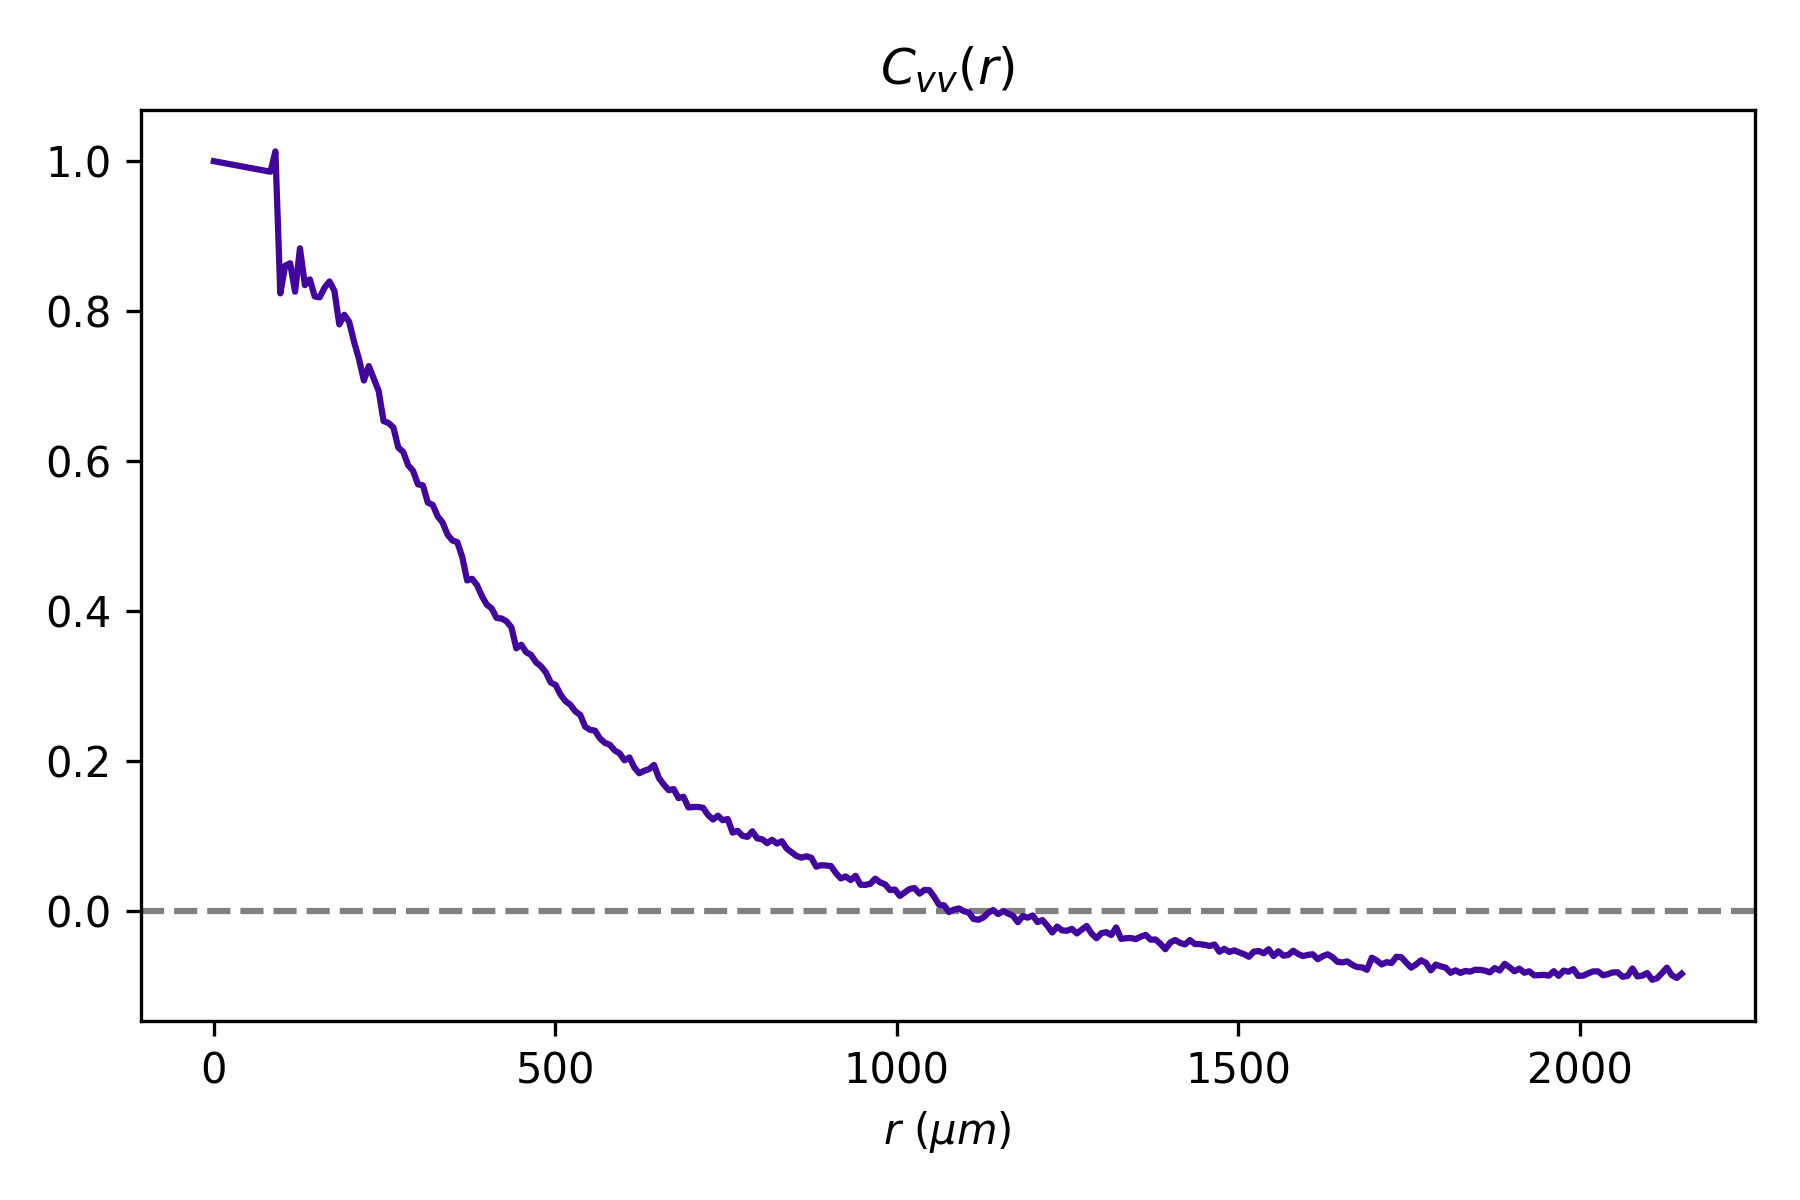
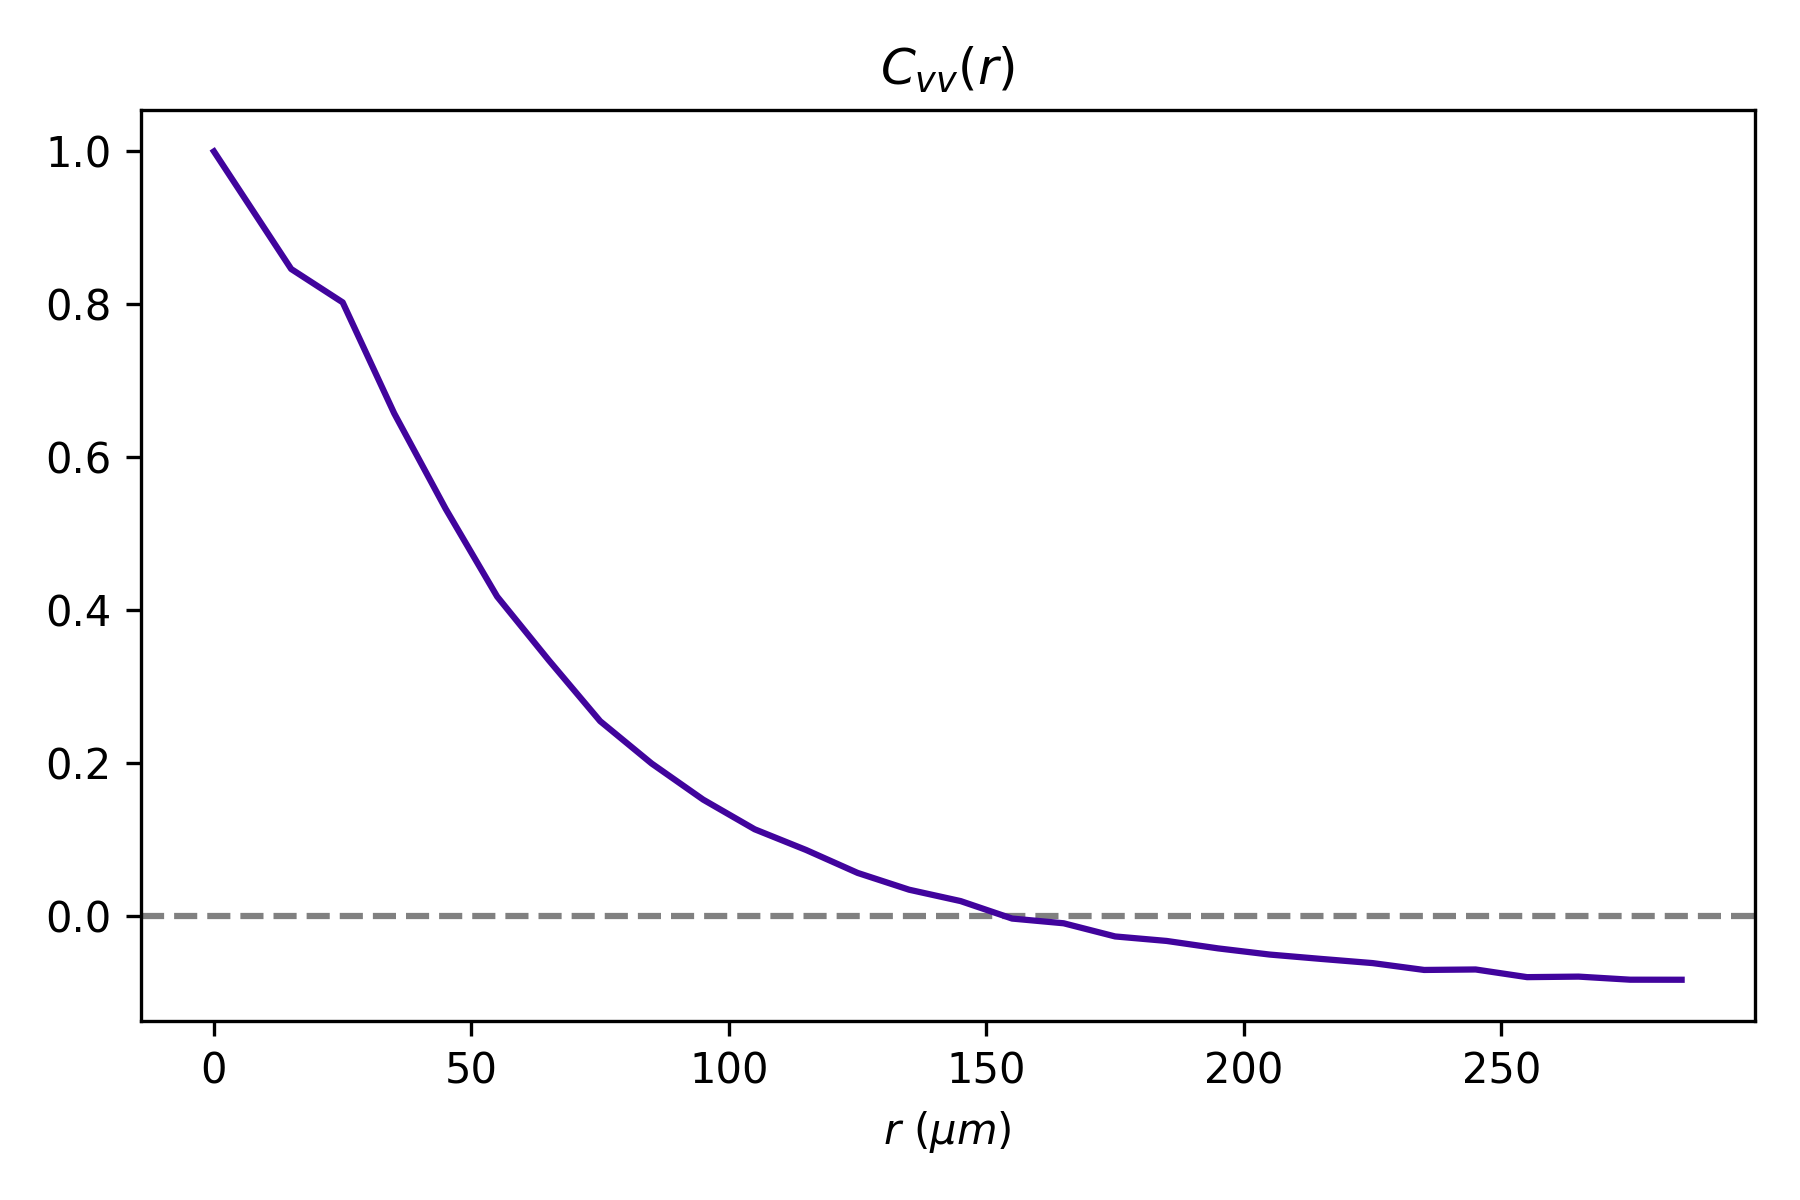
scaling t_array with df

diff --git a/analysis/compute_correlations.py b/analysis/compute_correlations.py
@@ -76,13 +76,13 @@ def vm_compute_correlation(path, config_path, args):
 
         # Compute temporal autocorrelations
         if args.param == 'hh' or args.param == 'all':
-            autocorr_obj.compute_temporal(h_variation, 'hh', tmax, t_avrg=True, overwrite=args.overwrite)
+            autocorr_obj.compute_temporal(h_variation, 'hh', tmax, df=df, t_avrg=True, overwrite=args.overwrite)
         if args.param == 'AA' or args.param == 'all':
-            autocorr_obj.compute_temporal(A_variation, 'AA', tmax, t_avrg=True, overwrite=args.overwrite)
+            autocorr_obj.compute_temporal(A_variation, 'AA', tmax, df=df, t_avrg=True, overwrite=args.overwrite)
         if args.param == 'VV' or args.param == 'all':
-            autocorr_obj.compute_temporal(V_variation, 'VV', tmax, t_avrg=True, overwrite=args.overwrite)
+            autocorr_obj.compute_temporal(V_variation, 'VV', tmax, df=df, t_avrg=True, overwrite=args.overwrite)
         if args.param == 'vv' or args.param == 'all':
-            autocorr_obj.compute_temporal(velocities,  'vv', tmax, t_avrg=True, overwrite=args.overwrite)
+            autocorr_obj.compute_temporal(velocities,  'vv', tmax, df=df, t_avrg=True, overwrite=args.overwrite)
 
     # Save autocorrelation as .autocorr
     autocorr_obj.save_pickle()

diff --git a/analysis/utils/correlation_object.py b/analysis/utils/correlation_object.py
@@ -1,11 +1,13 @@
 import os
+import sys
 import pickle
 import platform
 import numpy as np
 from pathlib import Path
 from datetime import datetime
 
-import utils.correlation_computations as compute
+sys.path.append("analysis/utils/")
+import correlation_computations as compute
 
 data_dir = "data/simulated/raw/"
 obj_dir  = "data/simulated/processed/"
@@ -132,7 +134,7 @@ class VMAutocorrelationObject:
 
 
 
-    def compute_temporal(self, variable, variable_name, t_max, t_avrg=False, overwrite=False):
+    def compute_temporal(self, variable, variable_name, t_max, df=1, t_avrg=False, overwrite=False):
         """ Computes temporal autocorrelation """
 
         # Check if correlation exists
@@ -146,5 +148,5 @@ class VMAutocorrelationObject:
 
         # Update object
         self.temporal[variable_name] = Ct['C_norm']
-        self.t_array[variable_name]  = np.arange(t_max)
+        self.t_array[variable_name]  = np.arange(t_max) * df
         self.log['t'][variable_name] = datetime.today().strftime('%Y/%m/%d_%H:%M')

diff --git a/analysis/visualization/plot_correlations.py b/analysis/visualization/plot_correlations.py
@@ -150,7 +150,7 @@ def plot_correlation(path, label, color, args):
         if args.units == "sim":
             x = corr_obj.r_array[args.param]
         elif args.units == "exp":
-            x = corr_obj.r_array[args.param] * config_file["experimental"]["rhex"]
+            x = corr_obj.r_array[args.param]
 
         y = corr_obj.spatial[args.param]
         plt.plot(x[(x <= args.xlim) * (y <= args.ylim)], y[(x <= args.xlim) * (y <= args.ylim)],
